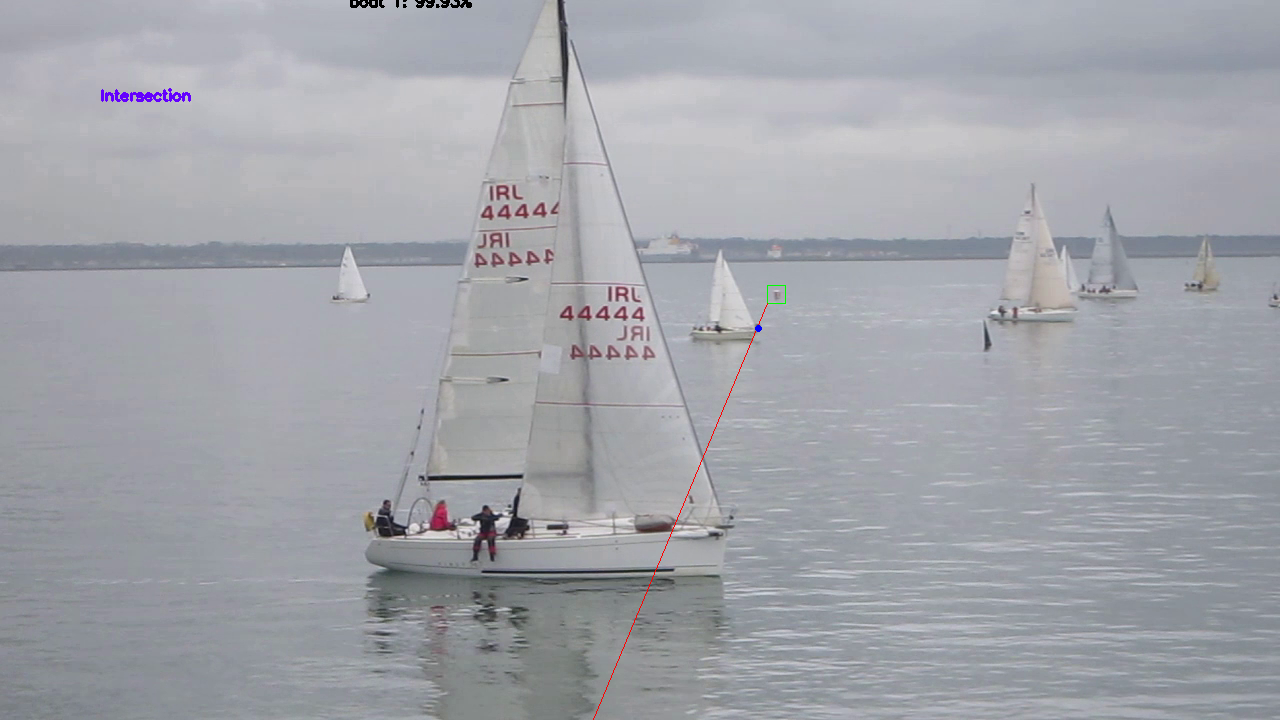
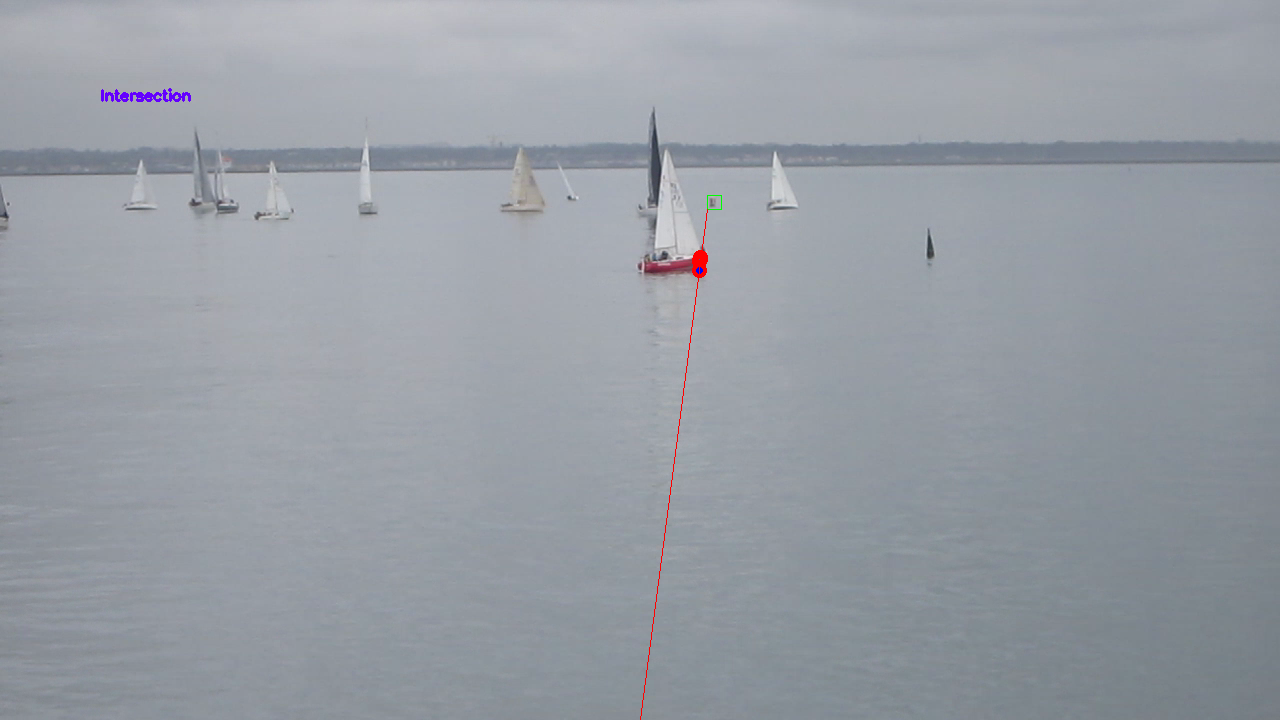
Adding some images of finishes

diff --git a/README.md b/README.md
@@ -11,4 +11,5 @@ Records finish times of  boats
 
 Still working on sail number recognition
 
-<image src ="res/Screen-Shots/line_crossing.png"/>
+<image src ="res/Screen-Shots/Finishes/1.png"/>
+<image src ="res/Screen-Shots/Finishes/2.png"/>
